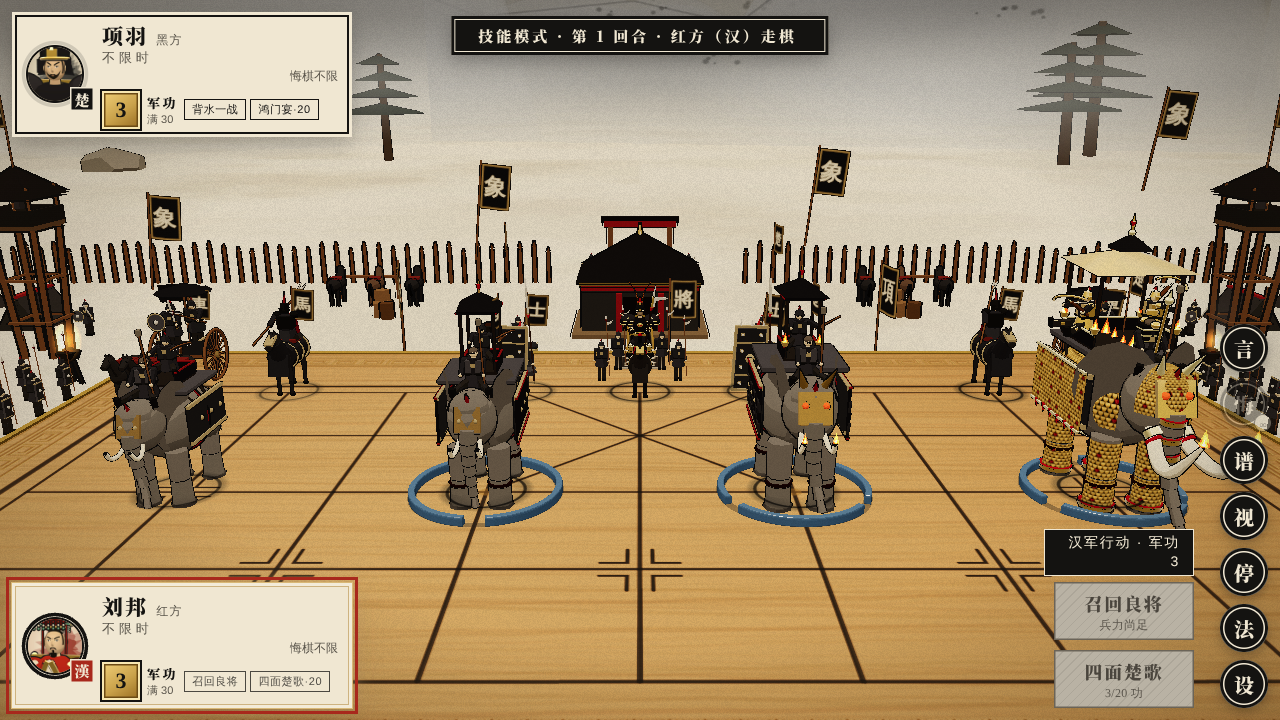
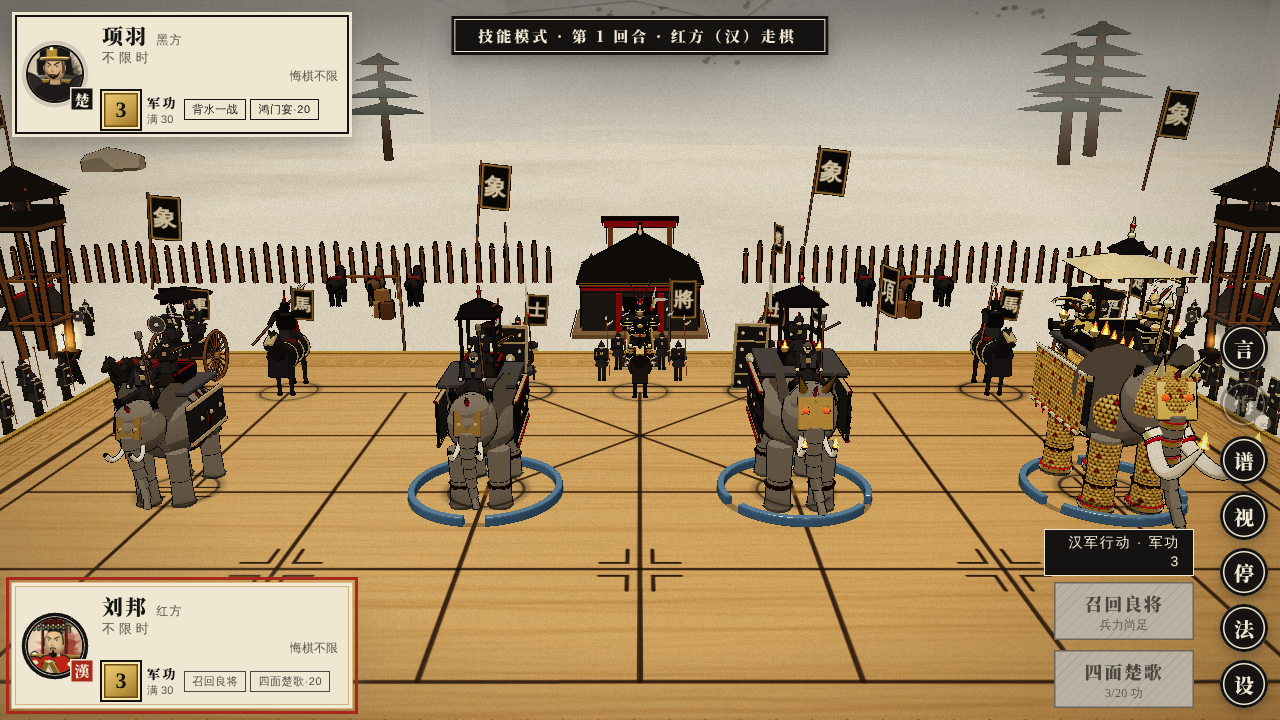
M33：火象合网格（四级每帧 +18 次绘制）；图更新；H37
Claude-Session: https://claude.ai/code/session_01LeSA918yjPExad28VrQqob

diff --git a/source/src/elephantlv.js b/source/src/elephantlv.js
@@ -101,7 +101,7 @@ window.ElephantLV = (() => {
     tex.wrapS = tex.wrapT = THREE.RepeatWrapping;
     // char-017：鳞甲有点太密 → repeat 乘 0.6，鳞片放大、排稀
     const cache = new Map();   // 同一种排法共用一张贴图、一个材质（原来每块甲各克隆一张，四级 15 张）
-    scaleMat = (rep) => { const key = rep.join(','); if (!cache.has(key)) { const t = tex.clone(); t.needsUpdate = true; t.repeat.set(rep[0] * 0.6, rep[1] * 0.6); cache.set(key, Core.toon(0xffffff, { map: t, unique: true })); } return cache.get(key); };
+    scaleMat = (rep) => { const key = rep.join(','); if (!cache.has(key)) { const t = tex.clone(); t.needsUpdate = true; t.repeat.set(rep[0] * 0.6, rep[1] * 0.6); const m = Core.toon(0xffffff, { map: t, unique: true }); m.userData.scale = true; cache.set(key, m); } return cache.get(key); };
     return scaleMat;
   }
   function scales(el) {
@@ -199,6 +199,77 @@ window.ElephantLV = (() => {
       add(el.body, [-1.3, -1.45].map((x, i) => P(G.box(0.04, 0.9, 0.06), i ? RED : GOLD2, x, 3.0, 0, 0, 0, 0.9 + i * 0.2)));   // 尾羽
     }
   }
+  // ---------- 合网格（优化部 R2：一只象 ≤15 个网格、≤30 次绘制；样子不变）----------
+  // 象身上零零碎碎的件（甲片、金箍、火、描边…）按材质合成几块蒙皮网格；每块零件跟着它原来的父节点动，腿、鼻子、耳朵、塔照样摆。
+  // 描边：把 outlineMat 在着色器里沿法线推出去的那一圈直接烤进顶点；鳞甲贴图：把 repeat 烤进 uv，几种排法共用一个材质。
+  function bake(el) {
+    const root = el.group; root.updateMatrixWorld(true);
+    const rootInv = root.matrixWorld.clone().invert(), skip = new Set();
+    if (el.banner) el.banner.group.traverse(o => skip.add(o));   // 旗子自己会飘，不动它
+    if (el.flame && el.flame.isMesh) skip.add(el.flame);
+    const groups = new Map(), bones = [], boneIx = new Map();
+    const boneOf = o => { const p = o.parent; if (!boneIx.has(p)) { boneIx.set(p, bones.length); bones.push(p); } return boneIx.get(p); };
+    root.traverseVisible(o => {
+      if (!o.isMesh || o.isSkinnedMesh || skip.has(o) || o.layers.mask !== 1 || !o.geometry.attributes.position) return;
+      const mt = o.material; if (Array.isArray(mt)) return;
+      let key, kind;
+      if (mt.side === THREE.BackSide && mt.isMeshBasicMaterial) { key = 'ink' + mt.color.getHex(); kind = 'ink'; }
+      else if (mt.customProgramCacheKey && mt.customProgramCacheKey() === 'vcGold' && o.geometry.attributes.color) { key = 'vcg' + mt.uuid; kind = 'vcg'; }   // 合好的零件（顶点色 + 金属）：材质照用原来那个
+      else if (mt.isMeshBasicMaterial && mt.blending === THREE.AdditiveBlending) { key = 'glow'; kind = 'glow'; }
+      else if (mt.isMeshToonMaterial && mt.map && mt.userData.scale) { key = 'scale' + mt.side; kind = 'scale'; }
+      else if (mt.isMeshToonMaterial && !mt.map && !mt.transparent && mt.onBeforeCompile === THREE.Material.prototype.onBeforeCompile && (!mt.emissive || mt.emissive.getHex() === 0)) { key = 'vc' + mt.side + (mt.gradientMap ? mt.gradientMap.uuid : ''); kind = 'vc'; }
+      else return;
+      if (kind !== 'ink' && kind !== 'glow') key += o.castShadow ? ':s' : ':n';   // 原来不投影的小件合完也不投影
+      if (!groups.has(key)) groups.set(key, { kind, list: [], mat: mt, shadow: false });
+      const gr = groups.get(key); gr.list.push(o); if (o.castShadow && kind !== 'glow' && kind !== 'ink') gr.shadow = true;
+    });
+    const M = new THREE.Matrix4(), N = new THREE.Matrix3(), v = new THREE.Vector3(), n = new THREE.Vector3();
+    const made = [];
+    for (const [, gr] of groups) {
+      if (gr.list.length < 2) continue;
+      let cnt = 0; const geos = gr.list.map(o => { const g = o.geometry.index ? o.geometry.toNonIndexed() : o.geometry; cnt += g.attributes.position.count; return g; });
+      const pos = new Float32Array(cnt * 3), nor = new Float32Array(cnt * 3), col = gr.kind === 'vc' || gr.kind === 'glow' || gr.kind === 'vcg' ? new Float32Array(cnt * 3) : null, uv = gr.kind === 'scale' ? new Float32Array(cnt * 2) : null;
+      const si = new Uint16Array(cnt * 4), sw = new Float32Array(cnt * 4); let k = 0;
+      gr.list.forEach((o, gi) => {
+        const g = geos[gi], P = g.attributes.position, Nn = g.attributes.normal, U = g.attributes.uv, mt = o.material, bi = boneOf(o);
+        M.multiplyMatrices(rootInv, o.matrixWorld); N.getNormalMatrix(M);
+        const th = gr.kind === 'ink' ? (mt.userData.thick ? mt.userData.thick.value : 0.022) : 0, rep = uv ? mt.map.repeat : null;
+        for (let i = 0; i < P.count; i++, k++) {
+          v.fromBufferAttribute(P, i);
+          if (Nn) n.fromBufferAttribute(Nn, i); else n.set(0, 1, 0);
+          if (th) v.addScaledVector(n.clone().normalize(), th);   // 描边那一圈（原来在着色器里按零件自己的坐标推）
+          v.applyMatrix4(M); n.applyMatrix3(N).normalize();
+          pos.set([v.x, v.y, v.z], k * 3); nor.set([n.x, n.y, n.z], k * 3);
+          if (col) { const C = g.attributes.color; col.set(gr.kind === 'vcg' ? [C.getX(i), C.getY(i), C.getZ(i)] : [mt.color.r, mt.color.g, mt.color.b], k * 3); }
+          if (uv) uv.set(U ? [U.getX(i) * rep.x, U.getY(i) * rep.y] : [0, 0], k * 2);
+          si[k * 4] = bi; sw[k * 4] = 1;
+        }
+        if (g !== o.geometry) g.dispose();
+      });
+      const geo = new THREE.BufferGeometry();
+      geo.setAttribute('position', new THREE.BufferAttribute(pos, 3)); geo.setAttribute('normal', new THREE.BufferAttribute(nor, 3));
+      if (col) geo.setAttribute('color', new THREE.BufferAttribute(col, 3)); if (uv) geo.setAttribute('uv', new THREE.BufferAttribute(uv, 2));
+      geo.setAttribute('skinIndex', new THREE.Uint16BufferAttribute(si, 4)); geo.setAttribute('skinWeight', new THREE.BufferAttribute(sw, 4));
+      let mat;
+      if (gr.kind === 'ink') mat = new THREE.MeshBasicMaterial({ color: gr.mat.color, side: THREE.BackSide });
+      else if (gr.kind === 'glow') mat = new THREE.MeshBasicMaterial({ color: 0xffffff, vertexColors: true, transparent: true, opacity: gr.mat.opacity, blending: THREE.AdditiveBlending, depthWrite: false, toneMapped: false });
+      else if (gr.kind === 'scale') { const t = gr.mat.map.clone(); t.repeat.set(1, 1); t.needsUpdate = true; mat = Core.toon(0xffffff, { map: t, unique: true, side: gr.mat.side }); }
+      else if (gr.kind === 'vcg') mat = gr.mat;
+      else mat = Core.toon(0xffffff, { vertexColors: true, unique: true, side: gr.mat.side });
+      made.push({ geo, mat, shadow: gr.shadow, list: gr.list });
+    }
+    const skel = new THREE.Skeleton(bones), up = THREE.Skeleton.prototype.update, Z = new THREE.Matrix4().makeScale(0, 0, 0);
+    skel.update = function () {   // 父节点藏起来（visible = false）的那一块也不画
+      up.call(this);
+      for (let i = 0; i < bones.length; i++) { let o = bones[i]; while (o && o !== root) { if (!o.visible) { Z.toArray(this.boneMatrices, i * 16); break; } o = o.parent; } }
+    };
+    for (const m of made) {
+      const s = new THREE.SkinnedMesh(m.geo, m.mat); s.castShadow = m.shadow; s.frustumCulled = false; s.userData.baked = true;
+      root.add(s); s.updateMatrixWorld(true); s.bind(skel, s.matrixWorld.clone());
+      for (const o of m.list) o.visible = false;
+    }
+    return el;
+  }
   const PLANS = { a: planA, b: planB, c: planC };
   function make(side = 'b', o = {}) {
     const lv = o.lv || 1, plan = o.plan || 'a';
@@ -206,6 +277,7 @@ window.ElephantLV = (() => {
     PLANS[plan](el, lv);
     el.lvScale = SCALE[lv - 1];
     if (plan === 'b') { const k = (lv >= 4 ? 1.12 : 1) / el.lvScale; el.tower.scale.setScalar(k); el.mahout.scale.multiplyScalar(k); }   // 人不跟着象放大；四级的人稍大一点（char-010）   // Ham char-005：象变大，人不要变大
+    if (o.bake !== false) bake(el);
     el.group.updateMatrixWorld(true); el.topY = new THREE.Box3().setFromObject(el.group).max.y;   // 整只象最高点（group 自己的坐标，没乘缩放）：棋子标牌放在它上面，别穿进塔里（char-020）
     return el;
   }

diff --git a/source/docs/collab/main-to-model.md b/source/docs/collab/main-to-model.md
@@ -2,6 +2,11 @@
 
 最新的在最上面。美术那边用 `git fetch origin && git show origin/dev:source/docs/collab/main-to-model.md` 看。约定见同目录的 `MODEL-WORKFLOW.md`。
 
+## H37 · 2026-10-10 · M33（火象合网格）已接，图已更新（td/m31）
+- `elephantlv.js` 换成 de6f4e8。实测（无头浏览器，单只象加进场景前后）：一级每帧 +9 次绘制，四级 +18 次；样子和合并前一样。
+- 一到四级各走一遍 `march` → `attack`（踩兵）→ `die('blast')`：都跑完，没有报错。腿、鼻子、塔错位要逐帧看，我没录；四级合并后的正面截图和合并前对比看不出差别。
+- 图已覆盖：`td/m31` 的 `source/docs/collab/td-shots/m32-front.png`、`m32-side-lv1～4.png`（含 M32 的旗子位置）。Ham 点头就上线。
+
 ## H36 · 2026-10-10 · M32（象的旗子抬高、不穿模）已改，图在 td/m31
 - `elephantlv.js` 换成 dd278c6（多了 `topY`）；`squads.js` 的 `leader()`：火象的旗插在 `topY × EL × lvScale + 0.15`，不往后挪。
 - 图（`td/m31` 分支）：`source/docs/collab/td-shots/m32-front.png`（正面，左起一、二、三、四级，四只象旗子都在塔顶上方）；`m32-side-lv1.png`～`m32-side-lv4.png`（侧面，每张中间那只是该级；为了侧面不被挡，四只摆在同一列的 5～8 行，旁边会露出相邻那只）。
